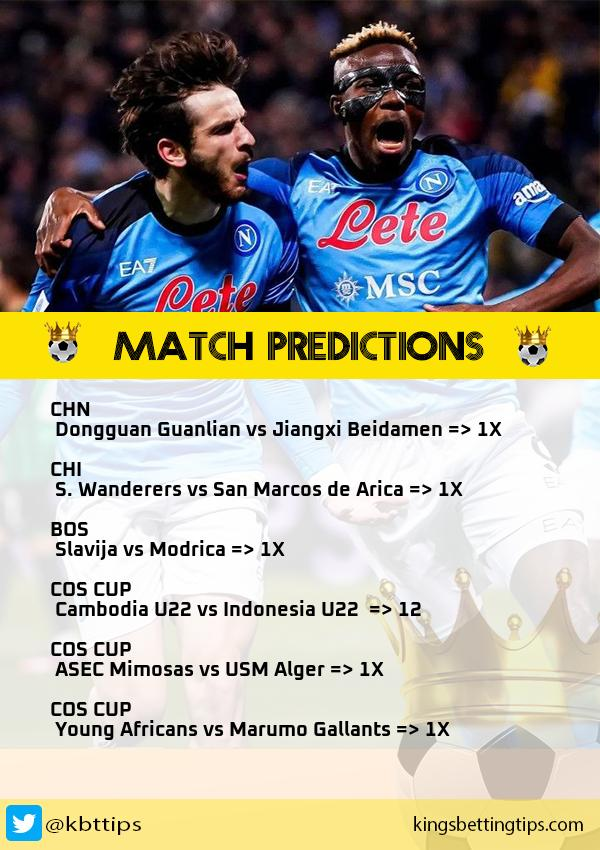
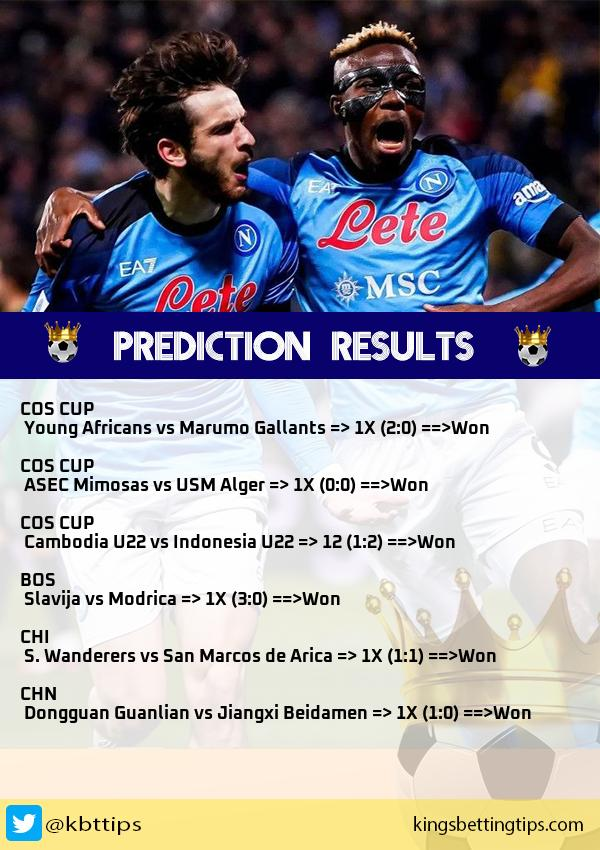
update

Changed region(s): [[0.0, 0.3671, 1.0, 0.8871]]

diff --git a/twitter_results_api.py b/twitter_results_api.py
@@ -1,0 +1,192 @@
+import csv
+import numpy as np
+import tweepy
+import configparser
+from PIL import Image, ImageFont, ImageDraw
+import kdb_config
+
+# read configs
+config = configparser.ConfigParser()
+config.read('config.ini')
+
+api_key = kdb_config.api_key
+api_key_secret = kdb_config.api_key_secret
+
+access_token = kdb_config.access_token
+access_token_secret = kdb_config.access_token_secret
+
+webUrl = 'https://kingsbettingtips.com'
+
+# print(api_key)
+
+# authentication
+auth = tweepy.OAuthHandler(api_key, api_key_secret)
+auth.set_access_token(access_token, access_token_secret)
+
+api = tweepy.API(auth, wait_on_rate_limit=True)
+
+
+nigeria_woeid = "1398823"
+kenya_woied = "1528335"
+trend_results_nigeria = api.get_place_trends(nigeria_woeid)
+trend_results_kenya = api.get_place_trends(kenya_woied)
+
+kenya_trends = []
+nigeria_trends = []
+
+lost_post = False
+
+# _________________________________________________________
+                # Fetching tips from csv
+def get_tweet_contents():
+    csv_f = "oddslot_data.csv"
+    tips = []
+
+
+    with open(csv_f, "r") as f:    
+            csv_data = csv.reader(f)
+            rows = list(csv_data)
+            reversed_rows = reversed(rows)  # Reverse the list of rows
+
+            for row in reversed_rows:
+                tips.append(row)
+
+
+    predictions =tips[:6] #get from 0 - 6 rows 
+    contents = []
+  
+
+    all_tips =  [x[:10] for x in predictions]
+    indices = [0, 1, 2, 5, 8] #index to be selected
+    selected_elements = []
+
+    for sublist in all_tips:
+      selected_elements.append([sublist[i] for i in indices])
+
+
+    print(f"Selected  {selected_elements}")
+
+   
+    post_tips = ''
+    lost_count = 0
+    global lost_post
+
+    
+
+    for x in selected_elements:
+        
+        if x[4] == 'Lost':
+             lost_count += 1
+
+        if lost_count > 1:
+             lost_post = True
+        else:
+             lost_post = False
+            
+   
+        x[0] = f"{x[0]}\n"
+        x[1] = f"{x[1]} =>"
+        x[2] = f"{x[2]}"
+        x[3] = f"({x[3]})"
+        x[4] = f"==>{x[4]}\n\n"
+        post_tips += ' '.join(x)
+
+    print(post_tips)
+    contents = post_tips
+   
+    return contents
+
+
+     
+
+def twiiter_bot(tips_content):
+        
+        #  #######################################################
+                        # Create image
+        ##########################################################
+
+
+        thumbnail = Image.open("bg_img_results.png")
+        t_font = ImageFont.truetype('b.ttf', 18)
+        t_text = get_tweet_contents()
+        image_editable = ImageDraw.Draw(thumbnail)
+        image_editable.text((20,400), t_text,(00, 00, 00), t_font)
+        thumbnail.save("thumbnail.jpg")
+
+
+
+        # _________________________________________________________
+    # try:
+    ######################################################################
+                    # Kenya Trends
+    ######################################################################
+
+        for trend in trend_results_kenya[0]["trends"][:50]:
+            name = trend["name"]
+            volume = trend["tweet_volume"]
+            promoted = trend["promoted_content"]
+
+            k_trends = [name, volume, promoted]
+            if k_trends[1] is not None:
+                kenya_trends.append(tuple(k_trends))
+        # print(kbt_trends)
+
+        kenya_trends.sort(key=lambda a: a[1], reverse = True)
+
+    # # ######################################################################
+    # #                 # Nigeria Trends
+    # # ######################################################################
+
+        for trend in trend_results_nigeria[0]["trends"][:50]:
+            name = trend["name"]
+            volume = trend["tweet_volume"]
+            promoted = trend["promoted_content"]
+
+            n_trends = [name, volume, promoted]
+            if n_trends[1] is not None:
+                nigeria_trends.append(tuple(n_trends))
+            # print(kbt_trends)
+
+            nigeria_trends.sort(key=lambda a: a[1], reverse = True)
+            # print(kbt_trends)
+
+    # #     # 👇 using nested for loop
+
+    # # ######################################################################
+    # #                 # END
+    # # ######################################################################
+
+
+        k_items = [item[0] for item in kenya_trends[:5]]
+        n_items = [item[0] for item in nigeria_trends[:10]]
+        n_items + k_items
+        items = np.unique(n_items+k_items) # keeps only non dublicates
+        post_trends = ' '.join(items)
+        print(post_trends)
+
+        tweet = f"Today Tips! \n {tips_content} \n - {webUrl} \n \n{post_trends}" 
+        print(len(tweet))
+        print(tweet)
+
+        api.update_status(f"Betting Tips! \n {tips_content} \n visit-{webUrl}\n\n{post_trends}")
+        api.update_status_with_media(f"Results from our previous prediction tips \n for more tip visit ---{webUrl}\n\n{post_trends}","thumbnail.jpg")
+
+
+      
+    # except:
+    #     print("something went wrong")
+
+
+
+
+
+def run():
+    if lost_post == False:
+        twiiter_bot(get_tweet_contents)
+        print(lost_post)
+    else:
+        pass
+ 
+
+if __name__ == "__main__":
+    run()

diff --git a/main.py b/main.py
@@ -7,6 +7,7 @@ import venasbet_u35goals_spider
 import previous_1x2tips
 import kbtxtips
 import twitter_api
+import twitter_results_api
 import protips
 import time as _time
 
@@ -23,6 +24,8 @@ def _kbt():
         protips.run()
         _time.sleep(_runtime)
         twitter_api.run()
+        _time.sleep(_runtime)
+        twitter_results_api.run()
         _time.sleep(_runtime)
         venasbet_spider.run()
         _time.sleep(_runtime)

diff --git a/oddslot_spider.py b/oddslot_spider.py
@@ -85,6 +85,11 @@ def get_result(pick, score):
                 result = "Won"
             else:
                 result = "Lost"
+        elif pick == "12":
+            if s_list[0] > s_list[1] or s_list[0] < s_list[1] :
+                result = "Won"
+            else:
+                result = "Lost"
         elif score == ":":
             result = "..."
         else:

diff --git a/venasbet_spider.py b/venasbet_spider.py
@@ -88,6 +88,11 @@ def get_result(pick, score):
                 result = "Won"
             else:
                 result = "Lost"
+        elif pick == "12":
+            if s_list[0] > s_list[1] or s_list[0] < s_list[1] :
+                result = "Won"
+            else:
+                result = "Lost"
         elif score == ":":
             result = "..."
         else:
